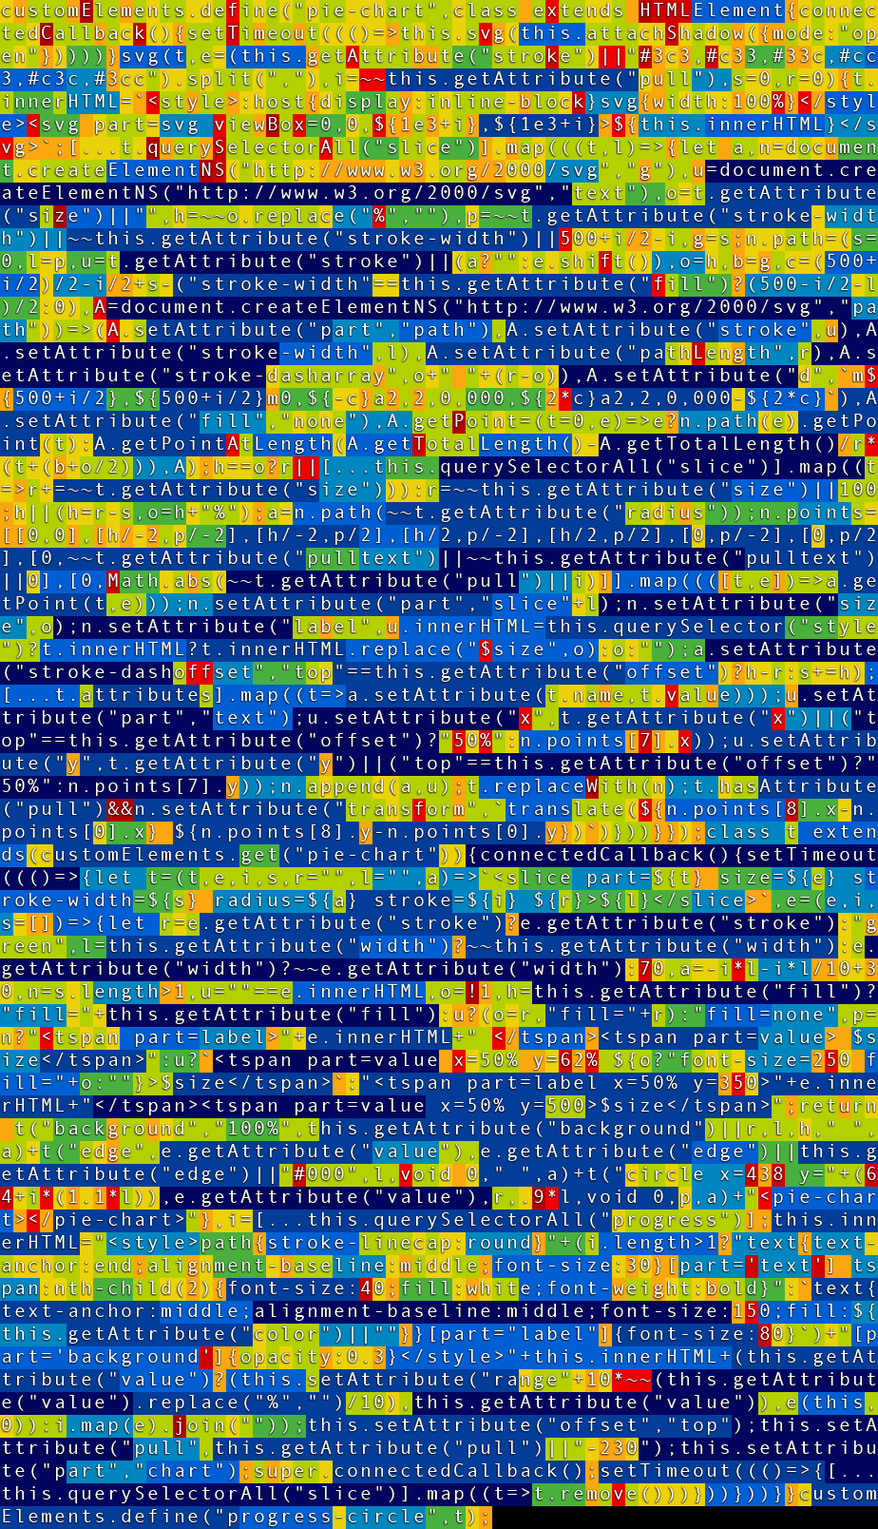
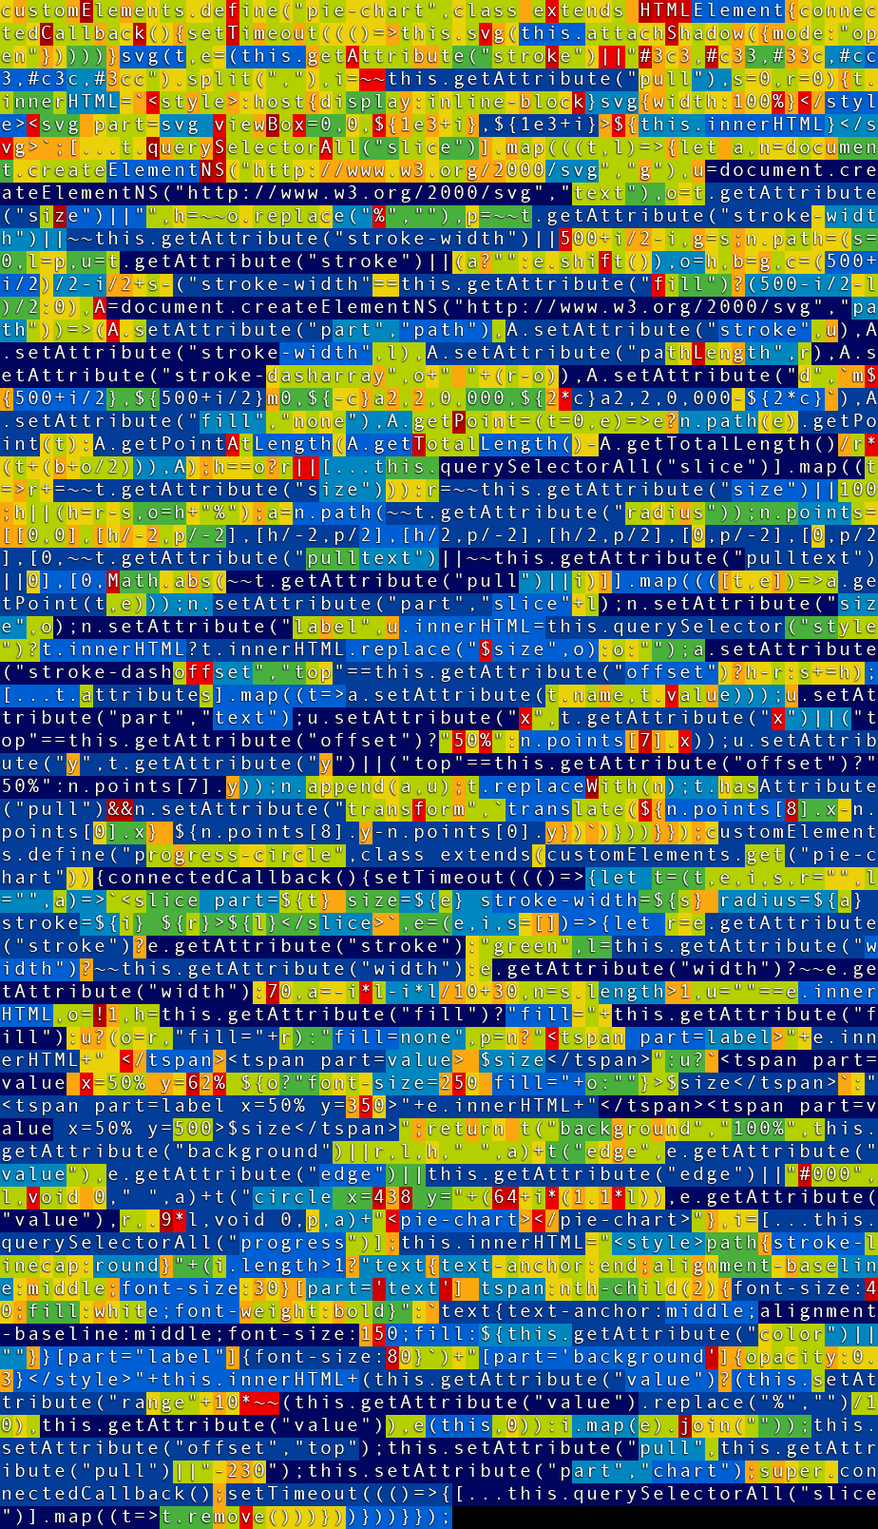
PieMeister

diff --git a/PieMeister-with-Progress.js b/PieMeister-with-Progress.js
@@ -1,5 +1,5 @@
 
-// To receive fully documented source code, you can send 25$ to my PayPal account: danny@engelman.nl
+// To receive full documented source code, send 25$ to my PayPal account: danny@engelman.nl
 
 customElements.define("pie-chart", class extends HTMLElement {
     connectedCallback() {
@@ -9,60 +9,60 @@ customElements.define("pie-chart", class extends HTMLElement {
     }
     svg(root, colors = (this.getAttribute("stroke") || "#3c3,#c33,#33c,#cc3,#c3c,#3cc").split(","), pull = ~~this.getAttribute("pull"), t = 0, pathLength = 0) {
         root.innerHTML = "<style>:host{display:inline-block}svg{width:100%}</style>" + `<svg part=svg viewBox=0,0,${1e3 + pull},${1e3 + pull}>${this.innerHTML}</svg>`;
-        [ ...root.querySelectorAll("slice") ].map(((e, i) => {
-            let s = document.createElementNS("http://www.w3.org/2000/svg", "g");
-            let r = document.createElementNS("http://www.w3.org/2000/svg", "text");
-            let l = e.getAttribute("size") || "";
-            let a = ~~l.replace("%", "");
-            let n = ~~e.getAttribute("stroke-width") || ~~this.getAttribute("stroke-width") || 500 + pull / 2 - pull;
-            let u = t;
-            let o;
-            s.path = (t = 0, i = n, r = e.getAttribute("stroke") || (o ? "" : colors.shift()), l = a, h = u, g = (500 + pull / 2) / 2 - pull / 2 + t - ("stroke-width" == this.getAttribute("fill") ? (500 - pull / 2 - i) / 2 : 0), p = document.createElementNS("http://www.w3.org/2000/svg", "path")) => (p.setAttribute("part", "path"), 
-            p.setAttribute("stroke", r), 
-            p.setAttribute("stroke-width", i), 
-            p.setAttribute("pathLength", pathLength), 
-            p.setAttribute("stroke-dasharray", l + " " + (pathLength - l)), 
-            p.setAttribute("d", `m${500 + pull / 2},${500 + pull / 2}m0,${-g}a2,2,0,000,${2 * g}a2,2,0,000-${2 * g}`), 
-            p.setAttribute("fill", "none"), 
-            p.getPoint = (t = 0, e) => e ? s.path(e).getPoint(t) : p.getPointAtLength(p.getTotalLength() - p.getTotalLength() / pathLength * (t + (h + l / 2))), 
-            p);
-            if (a == l) {
-                if (!pathLength) [ ...this.querySelectorAll("slice") ].map((t => pathLength += ~~t.getAttribute("size")));
+        [ ...root.querySelectorAll("slice") ].map(((sliceDefinition, e) => {
+            let group = document.createElementNS("http://www.w3.org/2000/svg", "g");
+            let label = document.createElementNS("http://www.w3.org/2000/svg", "text");
+            let sizeString = sliceDefinition.getAttribute("size") || "";
+            let sliceSize = ~~sizeString.replace("%", "");
+            let strokeWidth = ~~sliceDefinition.getAttribute("stroke-width") || ~~this.getAttribute("stroke-width") || 500 + pull / 2 - pull;
+            let i = t;
+            let slicepath;
+            group.path = (extraRadius = 0, t = strokeWidth, e = sliceDefinition.getAttribute("stroke") || (slicepath ? "" : colors.shift()), s = sliceSize, r = i, l = (500 + pull / 2) / 2 - pull / 2 + extraRadius - ("stroke-width" == this.getAttribute("fill") ? (500 - pull / 2 - t) / 2 : 0), path = document.createElementNS("http://www.w3.org/2000/svg", "path")) => (path.setAttribute("part", "path"), 
+            path.setAttribute("stroke", e), 
+            path.setAttribute("stroke-width", t), 
+            path.setAttribute("pathLength", pathLength), 
+            path.setAttribute("stroke-dasharray", s + " " + (pathLength - s)), 
+            path.setAttribute("d", `m${500 + pull / 2},${500 + pull / 2}m0,${-l}a2,2,0,000,${2 * l}a2,2,0,000-${2 * l}`), 
+            path.setAttribute("fill", "none"), 
+            path.getPoint = (t = 0, radius) => radius ? group.path(radius).getPoint(t) : path.getPointAtLength(path.getTotalLength() - path.getTotalLength() / pathLength * (t + (r + s / 2))), 
+            path);
+            if (sliceSize == sizeString) {
+                if (!pathLength) [ ...this.querySelectorAll("slice") ].map((slice => pathLength += ~~slice.getAttribute("size")));
             } else pathLength = ~~this.getAttribute("size") || 100;
-            if (!a) a = pathLength - t, 
-            l = a + "%";
-            o = s.path(~~e.getAttribute("radius"));
-            s.points = [ [ 0, 0 ], [ a / -2, n / -2 ], [ a / -2, n / 2 ], [ a / 2, n / -2 ], [ a / 2, n / 2 ], [ 0, n / -2 ], [ 0, n / 2 ], [ 0, ~~e.getAttribute("pulltext") || ~~this.getAttribute("pulltext") || 0 ], [ 0, Math.abs(~~e.getAttribute("pull") || pull) ] ].map((([t, e]) => o.getPoint(t, e)));
-            s.setAttribute("part", "slice" + i);
-            s.setAttribute("size", l);
-            s.setAttribute("label", r.innerHTML = this.querySelector("style") ? e.innerHTML ? e.innerHTML.replace("$size", l) : l : "");
-            o.setAttribute("stroke-dashoffset", "top" == this.getAttribute("offset") ? a - pathLength : t += a);
-            [ ...e.attributes ].map((t => o.setAttribute(t.name, t.value)));
-            r.setAttribute("part", "text");
-            r.setAttribute("x", e.getAttribute("x") || ("top" == this.getAttribute("offset") ? "50%" : s.points[7].x));
-            r.setAttribute("y", e.getAttribute("y") || ("top" == this.getAttribute("offset") ? "50%" : s.points[7].y));
-            s.append(o, r);
-            e.replaceWith(s);
-            if (e.hasAttribute("pull")) s.setAttribute("transform", `translate(${s.points[8].x - s.points[0].x} ${s.points[8].y - s.points[0].y})`);
+            if (!sliceSize) sliceSize = pathLength - t, 
+            sizeString = sliceSize + "%";
+            slicepath = group.path(~~sliceDefinition.getAttribute("radius"));
+            group.points = [ [ 0, 0 ], [ sliceSize / -2, strokeWidth / -2 ], [ sliceSize / -2, strokeWidth / 2 ], [ sliceSize / 2, strokeWidth / -2 ], [ sliceSize / 2, strokeWidth / 2 ], [ 0, strokeWidth / -2 ], [ 0, strokeWidth / 2 ], [ 0, ~~sliceDefinition.getAttribute("pulltext") || ~~this.getAttribute("pulltext") || 0 ], [ 0, Math.abs(~~sliceDefinition.getAttribute("pull") || pull) ] ].map((([radius, width]) => slicepath.getPoint(radius, width)));
+            group.setAttribute("part", "slice" + e);
+            group.setAttribute("size", sizeString);
+            group.setAttribute("label", label.innerHTML = this.querySelector("style") ? sliceDefinition.innerHTML ? sliceDefinition.innerHTML.replace("$size", sizeString) : sizeString : "");
+            slicepath.setAttribute("stroke-dashoffset", "top" == this.getAttribute("offset") ? sliceSize - pathLength : t += sliceSize);
+            [ ...sliceDefinition.attributes ].map((t => slicepath.setAttribute(t.name, t.value)));
+            label.setAttribute("part", "text");
+            label.setAttribute("x", sliceDefinition.getAttribute("x") || ("top" == this.getAttribute("offset") ? "50%" : group.points[7].x));
+            label.setAttribute("y", sliceDefinition.getAttribute("y") || ("top" == this.getAttribute("offset") ? "50%" : group.points[7].y));
+            group.append(slicepath, label);
+            sliceDefinition.replaceWith(group);
+            if (sliceDefinition.hasAttribute("pull")) group.setAttribute("transform", `translate(${group.points[8].x - group.points[0].x} ${group.points[8].y - group.points[0].y})`);
         }));
     }
 });
 
-class PieMeisterProgress extends(customElements.get("pie-chart")){
+customElements.define("progress-circle", class extends(customElements.get("pie-chart")){
     connectedCallback() {
         setTimeout((() => {
-            let slice = (t, e, i, s, r = "", l = "", a) => `<slice part=${t} size=${e} stroke-width=${s} radius=${a} stroke=${i} ${r}>${l}</slice>`;
+            let slice = (t, e, stroke, strokeWidth, i = "", label = "", radius) => `<slice part=${t} size=${e} stroke-width=${strokeWidth} radius=${radius} stroke=${stroke} ${i}>${label}</slice>`;
             let progressSlice = (t, e, i = []) => {
-                let s = t.getAttribute("stroke") ? t.getAttribute("stroke") : "green";
-                let r = this.getAttribute("width") ? ~~this.getAttribute("width") : t.getAttribute("width") ? ~~t.getAttribute("width") : 70;
-                let l = -e * r - e * r / 10 + 30;
-                let a = i.length > 1;
-                let n = "" == t.innerHTML;
-                let u = false;
-                let o = this.getAttribute("fill") ? "fill=" + this.getAttribute("fill") : n ? (u = s, 
-                "fill=" + s) : "fill=none";
-                let h = a ? "<tspan part=label>" + t.innerHTML + " </tspan><tspan part=value> $size</tspan>" : n ? `<tspan part=value x=50% y=62% ${u ? "font-size=250 fill=" + u : ""}>$size</tspan>` : "<tspan part=label x=50% y=350>" + t.innerHTML + "</tspan><tspan part=value x=50% y=500>$size</tspan>";
-                return slice("background", "100%", this.getAttribute("background") || s, r, o, " ", l) + slice("edge", t.getAttribute("value"), t.getAttribute("edge") || this.getAttribute("edge") || "#000", r, void 0, " ", l) + slice(`circle x=438 y=${64 + e * (1.1 * r)}`, t.getAttribute("value"), s, .9 * r, void 0, h, l) + "<pie-chart></pie-chart>";
+                let stroke = t.getAttribute("stroke") ? t.getAttribute("stroke") : "green";
+                let width = this.getAttribute("width") ? ~~this.getAttribute("width") : t.getAttribute("width") ? ~~t.getAttribute("width") : 70;
+                let radius = -e * width - e * width / 10 + 30;
+                let s = i.length > 1;
+                let r = "" == t.innerHTML;
+                let l = false;
+                let a = this.getAttribute("fill") ? "fill=" + this.getAttribute("fill") : r ? (l = stroke, 
+                "fill=" + stroke) : "fill=none";
+                let label = s ? "<tspan part=label>" + t.innerHTML + " </tspan><tspan part=value> $size</tspan>" : r ? `<tspan part=value x=50% y=62% ${l ? "font-size=250 fill=" + l : ""}>$size</tspan>` : "<tspan part=label x=50% y=350>" + t.innerHTML + "</tspan><tspan part=value x=50% y=500>$size</tspan>";
+                return slice("background", "100%", this.getAttribute("background") || stroke, width, a, " ", radius) + slice("edge", t.getAttribute("value"), t.getAttribute("edge") || this.getAttribute("edge") || "#000", width, void 0, " ", radius) + slice(`circle x=438 y=${64 + e * (1.1 * width)}`, t.getAttribute("value"), stroke, .9 * width, void 0, label, radius) + "<pie-chart></pie-chart>";
             };
             let t = [ ...this.querySelectorAll("progress") ];
             this.innerHTML = "<style>" + "path{stroke-linecap:round}" + (t.length > 1 ? "text{text-anchor:end;alignment-baseline:middle;font-size:30}" + "[part='text'] tspan:nth-child(2){font-size:40;fill:white;font-weight:bold}" : `text{text-anchor:middle;alignment-baseline:middle;font-size:150;fill:${this.getAttribute("color") || ""}}` + `[part="label"]{font-size:80}`) + "[part='background']{opacity:0.3}" + "</style>" + this.innerHTML + (this.getAttribute("value") ? (this.setAttribute("range" + 10 * ~~(this.getAttribute("value").replace("%", "") / 10), this.getAttribute("value")), 
@@ -76,6 +76,4 @@ class PieMeisterProgress extends(customElements.get("pie-chart")){
             }));
         }));
     }
-}
-
-customElements.define("progress-circle", PieMeisterProgress);
+});

diff --git a/PieMeister-with-Progress.min.js b/PieMeister-with-Progress.min.js
@@ -1,1 +1,1 @@
-customElements.define("pie-chart",class extends HTMLElement{connectedCallback(){setTimeout((()=>this.svg(this.attachShadow({mode:"open"}))))}svg(t,e=(this.getAttribute("stroke")||"#3c3,#c33,#33c,#cc3,#c3c,#3cc").split(","),i=~~this.getAttribute("pull"),s=0,r=0){t.innerHTML=`<style>:host{display:inline-block}svg{width:100%}</style><svg part=svg viewBox=0,0,${1e3+i},${1e3+i}>${this.innerHTML}</svg>`;[...t.querySelectorAll("slice")].map(((t,l)=>{let a,n=document.createElementNS("http://www.w3.org/2000/svg","g"),u=document.createElementNS("http://www.w3.org/2000/svg","text"),o=t.getAttribute("size")||"",h=~~o.replace("%",""),p=~~t.getAttribute("stroke-width")||~~this.getAttribute("stroke-width")||500+i/2-i,g=s;n.path=(s=0,l=p,u=t.getAttribute("stroke")||(a?"":e.shift()),o=h,b=g,c=(500+i/2)/2-i/2+s-("stroke-width"==this.getAttribute("fill")?(500-i/2-l)/2:0),A=document.createElementNS("http://www.w3.org/2000/svg","path"))=>(A.setAttribute("part","path"),A.setAttribute("stroke",u),A.setAttribute("stroke-width",l),A.setAttribute("pathLength",r),A.setAttribute("stroke-dasharray",o+" "+(r-o)),A.setAttribute("d",`m${500+i/2},${500+i/2}m0,${-c}a2,2,0,000,${2*c}a2,2,0,000-${2*c}`),A.setAttribute("fill","none"),A.getPoint=(t=0,e)=>e?n.path(e).getPoint(t):A.getPointAtLength(A.getTotalLength()-A.getTotalLength()/r*(t+(b+o/2))),A);h==o?r||[...this.querySelectorAll("slice")].map((t=>r+=~~t.getAttribute("size"))):r=~~this.getAttribute("size")||100;h||(h=r-s,o=h+"%");a=n.path(~~t.getAttribute("radius"));n.points=[[0,0],[h/-2,p/-2],[h/-2,p/2],[h/2,p/-2],[h/2,p/2],[0,p/-2],[0,p/2],[0,~~t.getAttribute("pulltext")||~~this.getAttribute("pulltext")||0],[0,Math.abs(~~t.getAttribute("pull")||i)]].map((([t,e])=>a.getPoint(t,e)));n.setAttribute("part","slice"+l);n.setAttribute("size",o);n.setAttribute("label",u.innerHTML=this.querySelector("style")?t.innerHTML?t.innerHTML.replace("$size",o):o:"");a.setAttribute("stroke-dashoffset","top"==this.getAttribute("offset")?h-r:s+=h);[...t.attributes].map((t=>a.setAttribute(t.name,t.value)));u.setAttribute("part","text");u.setAttribute("x",t.getAttribute("x")||("top"==this.getAttribute("offset")?"50%":n.points[7].x));u.setAttribute("y",t.getAttribute("y")||("top"==this.getAttribute("offset")?"50%":n.points[7].y));n.append(a,u);t.replaceWith(n);t.hasAttribute("pull")&&n.setAttribute("transform",`translate(${n.points[8].x-n.points[0].x} ${n.points[8].y-n.points[0].y})`)}))}});class t extends(customElements.get("pie-chart")){connectedCallback(){setTimeout((()=>{let t=(t,e,i,s,r="",l="",a)=>`<slice part=${t} size=${e} stroke-width=${s} radius=${a} stroke=${i} ${r}>${l}</slice>`,e=(e,i,s=[])=>{let r=e.getAttribute("stroke")?e.getAttribute("stroke"):"green",l=this.getAttribute("width")?~~this.getAttribute("width"):e.getAttribute("width")?~~e.getAttribute("width"):70,a=-i*l-i*l/10+30,n=s.length>1,u=""==e.innerHTML,o=!1,h=this.getAttribute("fill")?"fill="+this.getAttribute("fill"):u?(o=r,"fill="+r):"fill=none",p=n?"<tspan part=label>"+e.innerHTML+" </tspan><tspan part=value> $size</tspan>":u?`<tspan part=value x=50% y=62% ${o?"font-size=250 fill="+o:""}>$size</tspan>`:"<tspan part=label x=50% y=350>"+e.innerHTML+"</tspan><tspan part=value x=50% y=500>$size</tspan>";return t("background","100%",this.getAttribute("background")||r,l,h," ",a)+t("edge",e.getAttribute("value"),e.getAttribute("edge")||this.getAttribute("edge")||"#000",l,void 0," ",a)+t("circle x=438 y="+(64+i*(1.1*l)),e.getAttribute("value"),r,.9*l,void 0,p,a)+"<pie-chart></pie-chart>"},i=[...this.querySelectorAll("progress")];this.innerHTML="<style>path{stroke-linecap:round}"+(i.length>1?"text{text-anchor:end;alignment-baseline:middle;font-size:30}[part='text'] tspan:nth-child(2){font-size:40;fill:white;font-weight:bold}":`text{text-anchor:middle;alignment-baseline:middle;font-size:150;fill:${this.getAttribute("color")||""}}[part="label"]{font-size:80}`)+"[part='background']{opacity:0.3}</style>"+this.innerHTML+(this.getAttribute("value")?(this.setAttribute("range"+10*~~(this.getAttribute("value").replace("%","")/10),this.getAttribute("value")),e(this,0)):i.map(e).join(""));this.setAttribute("offset","top");this.setAttribute("pull",this.getAttribute("pull")||"-230");this.setAttribute("part","chart");super.connectedCallback();setTimeout((()=>{[...this.querySelectorAll("slice")].map((t=>t.remove()))}))}))}}customElements.define("progress-circle",t);
+customElements.define("pie-chart",class extends HTMLElement{connectedCallback(){setTimeout((()=>this.svg(this.attachShadow({mode:"open"}))))}svg(t,e=(this.getAttribute("stroke")||"#3c3,#c33,#33c,#cc3,#c3c,#3cc").split(","),i=~~this.getAttribute("pull"),s=0,r=0){t.innerHTML=`<style>:host{display:inline-block}svg{width:100%}</style><svg part=svg viewBox=0,0,${1e3+i},${1e3+i}>${this.innerHTML}</svg>`;[...t.querySelectorAll("slice")].map(((t,l)=>{let a,n=document.createElementNS("http://www.w3.org/2000/svg","g"),u=document.createElementNS("http://www.w3.org/2000/svg","text"),o=t.getAttribute("size")||"",h=~~o.replace("%",""),p=~~t.getAttribute("stroke-width")||~~this.getAttribute("stroke-width")||500+i/2-i,g=s;n.path=(s=0,l=p,u=t.getAttribute("stroke")||(a?"":e.shift()),o=h,b=g,c=(500+i/2)/2-i/2+s-("stroke-width"==this.getAttribute("fill")?(500-i/2-l)/2:0),A=document.createElementNS("http://www.w3.org/2000/svg","path"))=>(A.setAttribute("part","path"),A.setAttribute("stroke",u),A.setAttribute("stroke-width",l),A.setAttribute("pathLength",r),A.setAttribute("stroke-dasharray",o+" "+(r-o)),A.setAttribute("d",`m${500+i/2},${500+i/2}m0,${-c}a2,2,0,000,${2*c}a2,2,0,000-${2*c}`),A.setAttribute("fill","none"),A.getPoint=(t=0,e)=>e?n.path(e).getPoint(t):A.getPointAtLength(A.getTotalLength()-A.getTotalLength()/r*(t+(b+o/2))),A);h==o?r||[...this.querySelectorAll("slice")].map((t=>r+=~~t.getAttribute("size"))):r=~~this.getAttribute("size")||100;h||(h=r-s,o=h+"%");a=n.path(~~t.getAttribute("radius"));n.points=[[0,0],[h/-2,p/-2],[h/-2,p/2],[h/2,p/-2],[h/2,p/2],[0,p/-2],[0,p/2],[0,~~t.getAttribute("pulltext")||~~this.getAttribute("pulltext")||0],[0,Math.abs(~~t.getAttribute("pull")||i)]].map((([t,e])=>a.getPoint(t,e)));n.setAttribute("part","slice"+l);n.setAttribute("size",o);n.setAttribute("label",u.innerHTML=this.querySelector("style")?t.innerHTML?t.innerHTML.replace("$size",o):o:"");a.setAttribute("stroke-dashoffset","top"==this.getAttribute("offset")?h-r:s+=h);[...t.attributes].map((t=>a.setAttribute(t.name,t.value)));u.setAttribute("part","text");u.setAttribute("x",t.getAttribute("x")||("top"==this.getAttribute("offset")?"50%":n.points[7].x));u.setAttribute("y",t.getAttribute("y")||("top"==this.getAttribute("offset")?"50%":n.points[7].y));n.append(a,u);t.replaceWith(n);t.hasAttribute("pull")&&n.setAttribute("transform",`translate(${n.points[8].x-n.points[0].x} ${n.points[8].y-n.points[0].y})`)}))}});customElements.define("progress-circle",class extends(customElements.get("pie-chart")){connectedCallback(){setTimeout((()=>{let t=(t,e,i,s,r="",l="",a)=>`<slice part=${t} size=${e} stroke-width=${s} radius=${a} stroke=${i} ${r}>${l}</slice>`,e=(e,i,s=[])=>{let r=e.getAttribute("stroke")?e.getAttribute("stroke"):"green",l=this.getAttribute("width")?~~this.getAttribute("width"):e.getAttribute("width")?~~e.getAttribute("width"):70,a=-i*l-i*l/10+30,n=s.length>1,u=""==e.innerHTML,o=!1,h=this.getAttribute("fill")?"fill="+this.getAttribute("fill"):u?(o=r,"fill="+r):"fill=none",p=n?"<tspan part=label>"+e.innerHTML+" </tspan><tspan part=value> $size</tspan>":u?`<tspan part=value x=50% y=62% ${o?"font-size=250 fill="+o:""}>$size</tspan>`:"<tspan part=label x=50% y=350>"+e.innerHTML+"</tspan><tspan part=value x=50% y=500>$size</tspan>";return t("background","100%",this.getAttribute("background")||r,l,h," ",a)+t("edge",e.getAttribute("value"),e.getAttribute("edge")||this.getAttribute("edge")||"#000",l,void 0," ",a)+t("circle x=438 y="+(64+i*(1.1*l)),e.getAttribute("value"),r,.9*l,void 0,p,a)+"<pie-chart></pie-chart>"},i=[...this.querySelectorAll("progress")];this.innerHTML="<style>path{stroke-linecap:round}"+(i.length>1?"text{text-anchor:end;alignment-baseline:middle;font-size:30}[part='text'] tspan:nth-child(2){font-size:40;fill:white;font-weight:bold}":`text{text-anchor:middle;alignment-baseline:middle;font-size:150;fill:${this.getAttribute("color")||""}}[part="label"]{font-size:80}`)+"[part='background']{opacity:0.3}</style>"+this.innerHTML+(this.getAttribute("value")?(this.setAttribute("range"+10*~~(this.getAttribute("value").replace("%","")/10),this.getAttribute("value")),e(this,0)):i.map(e).join(""));this.setAttribute("offset","top");this.setAttribute("pull",this.getAttribute("pull")||"-230");this.setAttribute("part","chart");super.connectedCallback();setTimeout((()=>{[...this.querySelectorAll("slice")].map((t=>t.remove()))}))}))}});

diff --git a/index.html b/index.html
@@ -12,6 +12,7 @@
         /* display: none; */
       }
       body {
+        --bodywidth: 1100px;
         --blue: cornflowerblue;
         --margin: 1em;
         --h1_color: orangered;
@@ -30,7 +31,7 @@
         font-family: Arial;
         font-size: 21px;
         width: 88vw;
-        max-width: 1600px;
+        max-width: var(--bodywidth, 1100px);
         margin: 0 auto;
       }
     </style>
@@ -208,7 +209,7 @@
         color: var(--meister-demo-description-color, black);
       }
       :not(:defined) {
-        opacity: 0;
+        xopacity: 0;
       }
       table {
         font-size: 1em;
@@ -258,9 +259,9 @@
           <ul>
             <li>
               <a
-                href="https://dev.to/dannyengelman/what-web-technologies-are-required-to-draw-a-pie-chart-in-2021-spoiler-alert-a-standard-web-component-will-do-1j56"
+                href="https://dev.to/dannyengelman/web-components-using-unknownhtmlelements-for-better-semantic-html-1a0i-temp-slug-9494992"
                 target="_blank"
-                >What Web Technologies are required to draw a Pie Chart in 2021?</a
+                >Web Components using UnknownHTMLElements for better semantic HTML</a
               >
             </li>
             <li>
@@ -370,8 +371,8 @@
             <slice size="40"></slice>
           </pie-chart>
           <meister-description
-            >Mark the <b>first</b> slice as a percentage <attr-setting>size="10%"</attr-setting> to create a 100 percent
-            pie</meister-description
+            >Mark the <b>first</b> &lt;slice> as a percentage <attr-setting>size="10%"</attr-setting> to create a 100
+            percent pie</meister-description
           >
         </meister-demo>
         <meister-demo>
@@ -390,7 +391,7 @@
           <meister-description
             >Add a &lt;style> tag to activate labels. <br /><br />If a custom label is declared, the word '$size' is
             replaced. <br /><br />
-            An empty slice auto-completes a
+            An empty &lt;slice> auto-completes a
             <b>percentage pie</b></meister-description
           >
           <pie-chart>
@@ -450,9 +451,9 @@
           </pie-chart>
         </meister-demo>
         <meister-demo template="-21">
-          <meister-description>Add <b>any</b> SVG you want
-<p>The SVG &lt;circle>, &lt;text> and &lt;style> elements become part of the created &lt;svg> element</p>
-
+          <meister-description
+            >Add <b>any</b> SVG you want
+            <p>The SVG &lt;circle>, &lt;text> and &lt;style> elements become part of the created &lt;svg> element</p>
           </meister-description>
           <pie-chart pull="30" pulltext="100">
             <circle r="505" cx="50%" cy="50%" fill="green"></circle>
@@ -545,10 +546,9 @@
         <meister-demo example>
           <meister-description
             >Slices can have different <attr-setting>pull</attr-setting> and
-            <attr-setting>stroke-width</attr-setting> values.<br /><br />If you know SVG: all slice attributes will be
-            copied to the SVG &lt;path><br /><br />But note: in SVG STYLE has higher Specificity over
-            Attributes</meister-description
-          >
+            <attr-setting>stroke-width</attr-setting> values. <br /><br />If you know SVG: <b>all</b> &lt;slice>
+            attributes are copied to the SVG &lt;path> element
+          </meister-description>
           <pie-chart stroke-width="200" pull="-140">
             <style>
               text {
@@ -564,8 +564,8 @@
         </meister-demo>
         <meister-demo example>
           <meister-description
-            ><attr-setting>fill="stroke-width"</attr-setting> on the &lt;pie-chart> makes the
-            <attr-setting>stroke-width</attr-setting> <b>start</b> from the Pie Chart <b>center</b> creating a Polar
+            ><attr-setting>fill="stroke-width"</attr-setting> on the &lt;pie-chart> makes the &lt;slice>
+            <attr-setting>stroke-width</attr-setting> <b>start</b> from the Pie Chart <b>center</b>, creating a Polar
             chart</meister-description
           >
           <pie-chart fill="stroke-width" pull="50" pulltext="90">
@@ -819,12 +819,16 @@
         </ul>
       </section>
       <section>
-        <h1>GZip analysis</h1>
-        <p>PieMeister code is an optimized balance between size and performance</p>
+        <h2><meister-name></meister-name>GZip analysis</h2>
+        <p>PieMeister code is an optimized balance between function, size and performance</p>
+        <p>Blue is best compression, Red is worst compression</p>
         <p>Can you squeeze out more bytes?</p>
-        <h2>PieMeister: <content-length></content-length></h2>
+        <h3>PieMeister: <content-length></content-length></h3>
         <img src="gzip_analysis_PieMeister.png" />
-        <h2>PieMeister with Progress: <content-length src="https://pie-meister.github.io/PieMeister-with-Progress.min.js"></content-length></h2>
+        <h3>
+          PieMeister with Progress:
+          <content-length src="https://pie-meister.github.io/PieMeister-with-Progress.min.js"></content-length>
+        </h3>
         <img src="gzip_analysis_PieMeister-with-Progress.png" />
         <!-- <img src="https://www.rgraph.net/images/svg-activity-meter-snippet.png"> -->
       </section>
@@ -834,8 +838,8 @@
           <meister-description
             >CSS filter styles all SVG elements.
             <p>
-              v2 could create multiple SVGs and stack them, like done in the
-              <a href="https://chessmeister.github.io">ChessMeister</a> experiment
+              Maybe create multiple SVGs, for slices and labels, and stack them, like done in the
+              <a href="https://chessmeister.github.io">ChessMeister Chessboard</a> experiment
             </p>
           </meister-description>
           <pie-chart pull="200" pulltext="300">
